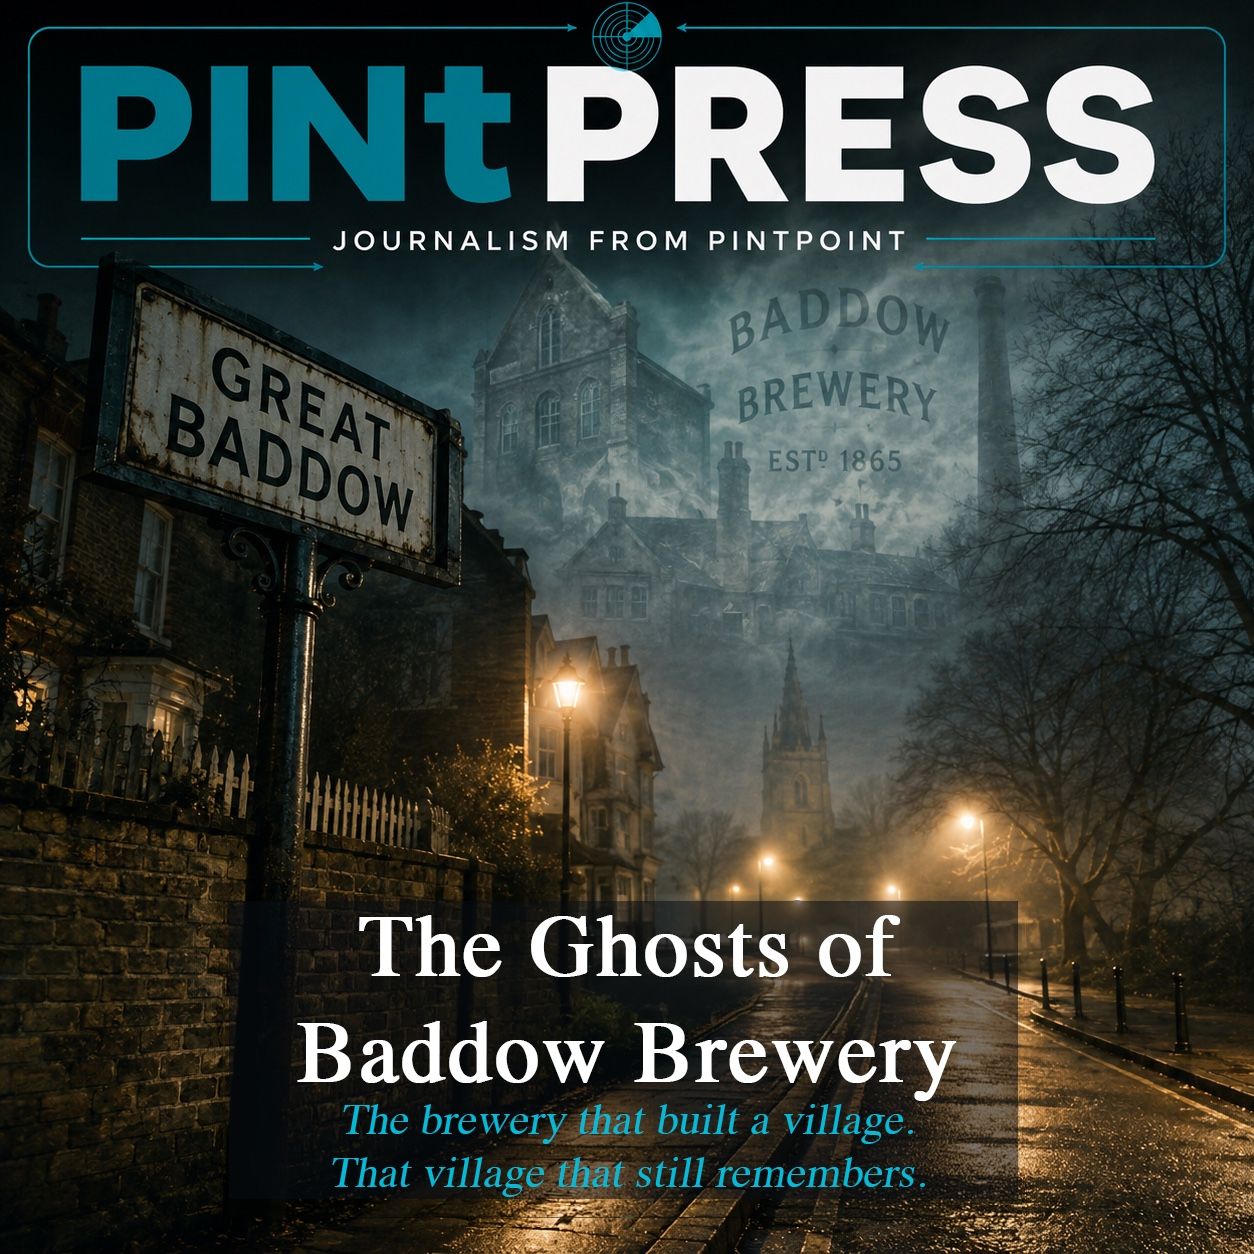
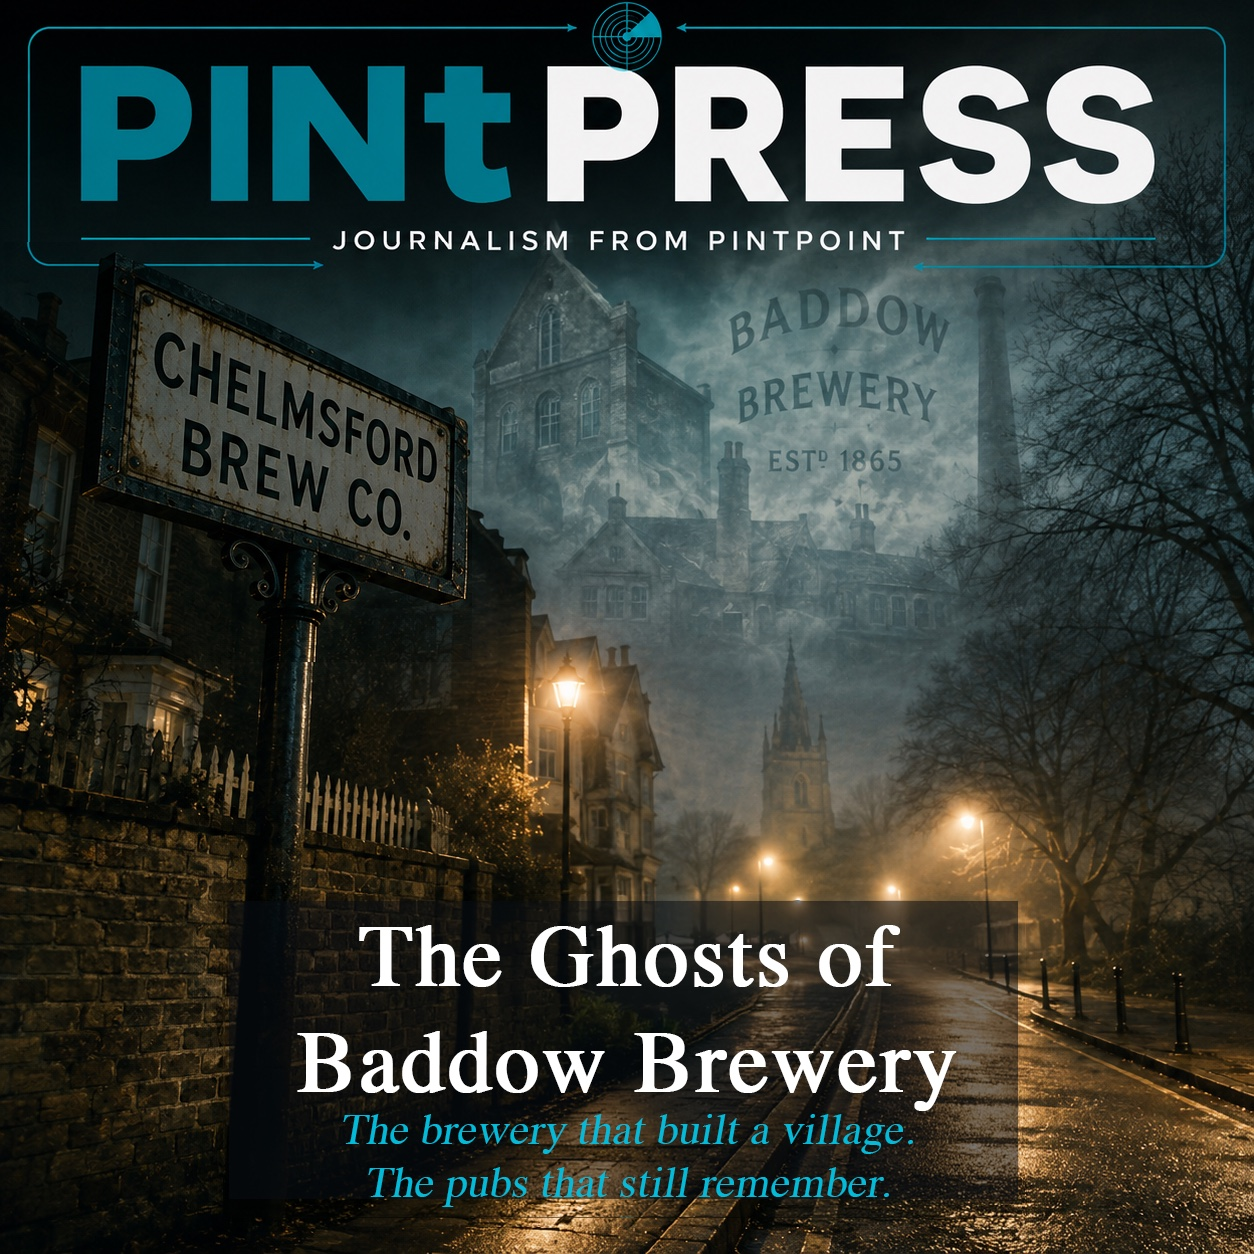
Baddow essay: swap share card + add inline hero
Replaces the share-card asset in place (same path, new visual):
Chelmsford Brew Co sign in the foreground with the ghostly outline
of the old Baddow Brewery rising behind, church spire and wet
cobbles at night. Same 1254x1254 JPEG, same URL — so unfurl caches
from X / Instagram at post-time keep the original card (as they
must — you can't edit those), but any new share, LinkedIn / Reddit /
Slack unfurl, and the essay's own reshare get the upgraded card.

Also adds the card inline as the hero image right below the H1 —
one-off exception to the no-inline-hero-share-graphic rule (this
card is strong enough to stand as both).

og:image:alt updated to describe the new visual accurately (the
sign reads Chelmsford Brew Co, not Great Baddow).

Claude-Session: https://claude.ai/code/session_01F8jFmQKk243donmkj6bTfE

diff --git a/blog/ghosts-of-baddow-brewery.html b/blog/ghosts-of-baddow-brewery.html
@@ -13,7 +13,7 @@
   <meta property="og:title" content="Ghosts of Baddow Brewery" />
   <meta property="og:description" content="Of Baddow Brewery’s 61 listed pubs, 30 still appear to be trading. This is the lost Essex brewery estate map." />
   <meta property="og:image" content="https://pintpoint.co.uk/blog/images/ghosts-of-baddow-brewery.jpg" />
-  <meta property="og:image:alt" content="PINtPRESS cover: a Great Baddow street sign in the foreground and a ghostly Baddow Brewery building rising behind it, with the essay title ‘The Ghosts of Baddow Brewery — The brewery that built a village. That village that still remembers.’" />
+  <meta property="og:image:alt" content="PINtPRESS cover: a Chelmsford Brew Co pub sign in the foreground with the ghostly outline of the old Baddow Brewery (Estd 1865) rising behind it, church spire and wet cobbles at night, and the essay title ‘The Ghosts of Baddow Brewery — The brewery that built a village. The pubs that still remember.’" />
   <meta name="twitter:card" content="summary_large_image" />
   <link rel="preconnect" href="https://fonts.googleapis.com" />
   <link href="https://fonts.googleapis.com/css2?family=Inter:wght@400;500;600;700;800;900&display=swap" rel="stylesheet" />
@@ -74,6 +74,8 @@
     .collection-cta .cta-body a { color: var(--teal); border-bottom-color: rgba(0,212,170,0.5); }
     .collection-cta .cta-btn { display: inline-block; padding: 10px 18px; background: var(--teal); color: #0d1117; border: none; border-radius: 8px; font-weight: 700; text-decoration: none; letter-spacing: 0.2px; }
     .collection-cta .cta-btn:hover { background: #00e6bc; }
+    figure.hero { margin: 20px 0 32px; }
+    figure.hero img { width: 100%; max-width: 640px; height: auto; display: block; margin: 0 auto; border-radius: 10px; border: 1px solid var(--border); }
     .sources { margin-top: 36px; padding-top: 24px; border-top: 1px solid var(--border); font-size: 0.85rem; color: var(--muted); }
     .sources h2 { font-size: 1rem; font-weight: 800; letter-spacing: 1px; text-transform: uppercase; color: var(--muted); margin-bottom: 10px; }
     footer { text-align: center; padding: 36px 24px; border-top: 1px solid var(--border); font-size: 0.82rem; color: var(--muted); margin-top: 24px; }
@@ -97,6 +99,10 @@
   <article class="content">
     <p class="meta"><span class="category">Essay</span>30 August 2026 · Great Baddow · Essex pubs</p>
     <h1>Ghosts of <em>Baddow Brewery</em></h1>
+
+    <figure class="hero">
+      <img src="/blog/images/ghosts-of-baddow-brewery.jpg" alt="Chelmsford Brew Co pub sign in the foreground with the ghostly outline of the old Baddow Brewery, Estd 1865, rising behind it — church spire, gaslamps and wet cobbles at night." loading="eager" width="1254" height="1254" />
+    </figure>
 
     <div class="lede">
       <p>Baddow Brewery stopped brewing in 1927. Nearly a century later, 30 of the 61 pubs associated with it are still serving drinkers.</p>
